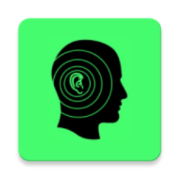
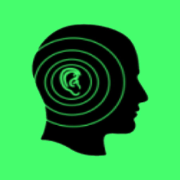
fixed ico files - werent displaying well in search results

diff --git a/index.html b/index.html
@@ -6,10 +6,11 @@
   <title>TinniTuneout - Tune Out Tinnitus</title>
 <meta http-equiv="Content-Security-Policy" content="script-src 'self'">
 <link rel="canonical" href="https://www.tinnituneout.com/index.html">
-<link rel="apple-touch-icon" sizes="180x180" href="/apple-touch-icon.png">
-<link rel="icon" type="image/png" sizes="32x32" href="/favicon-32x32.png">
-<link rel="icon" type="image/png" sizes="16x16" href="/favicon-16x16.png">
-<link rel="manifest" href="/site.webmanifest">
+<link rel="icon" type="image/png" href="/favicon-96x96.png" sizes="96x96" />
+<link rel="icon" type="image/svg+xml" href="/favicon.svg" />
+<link rel="shortcut icon" href="/favicon.ico" />
+<link rel="apple-touch-icon" sizes="180x180" href="/apple-touch-icon.png" />
+<link rel="manifest" href="/site.webmanifest" />
 <!-- Primary Meta Tags -->
 <meta name="description" content="TinniTuneout is a personalized sound therapy app designed to help reduce the impact of tinnitus through habituation and tailored audio support. Available on Android.">
 <meta name="keywords" content="tinnitus relief, sound therapy, tinnitus app, habituation, TinniTuneout, Android tinnitus app, tinnitus support, calming sounds, auditory therapy">
